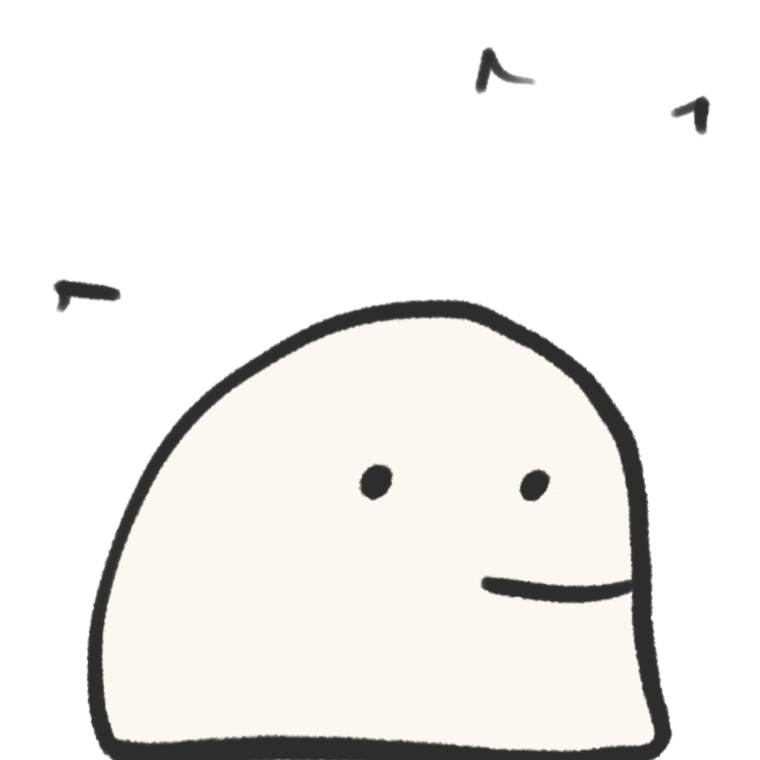
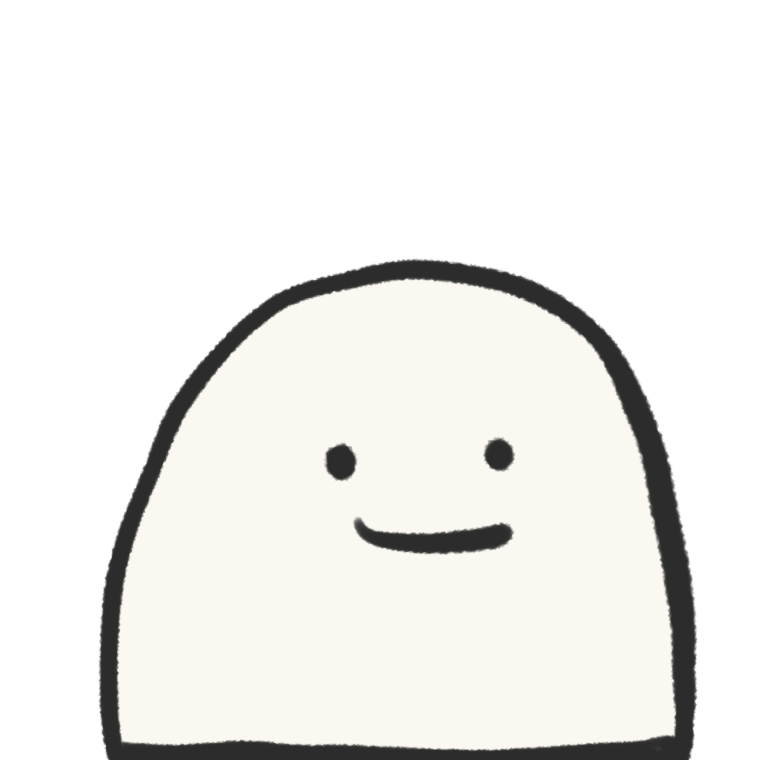
complete test pet idle state

diff --git a/desktop-pet/pets/test_pet/testpet.py b/desktop-pet/pets/test_pet/testpet.py
@@ -1,28 +1,66 @@
 from utils import context
 from . import test_pet_idle_state as idle
+from . import test_pet_constants as constants
 from win32api import GetMonitorInfo, MonitorFromPoint
 import tkinter as tk
 
 
+
 class TestPet():
     # this colour becomes the background, and is then set to be transparent
-    TRANSPARENCY = '#aba2a3'
+    xwin = 0
+    ywin = 0
+    w = 500
+    h = 500
 
     def __init__(self):
         # tkinter create root window
         self.root = tk.Tk()
         self.root.title('Test Pet')
 
-        #self.root.overrideredirect(True)
-        self.root.wm_attributes('-transparentcolor', self.TRANSPARENCY)
+        self.root.overrideredirect(True)
+        self.root.wm_attributes('-transparentcolor', constants.TRANSPARENCY)
 
         # position the screen
         ws = self.root.winfo_screenwidth()
         hs = self.root.winfo_screenheight()
 
+        self.root.geometry('%dx%d+%d+%d' % (self.w, self.h, ws/2-self.w, hs-self._get_taskbar_coords()-self.h))
+
+        #bind events to functions 
+        self.root.bind('<B1-Motion>', self._move)
+        self.root.bind('<Button-1>', self._set_mouse_pos)
+        self.root.bind('<Button-3>', self._do_popup)
+        self.root.bind('<ButtonRelease-1>', self._snap_to_taskbar)
+
         # initialize the state machine
         init_state = idle.TestPetIdleState()
         context.Context(init_state, self.root)
 
+        #right-click menu
+        self.menu = tk.Menu(self.root, tearoff=0)
+        self.menu.add_command(label="Quit", command=self.root.destroy)
+
         self.root.mainloop()
-        
+
+    def _set_mouse_pos(self, event):
+        self.xwin = event.x
+        self.ywin = event.y
+
+    def _move(self, event):
+        self.root.geometry(f'+{event.x_root - self.xwin}+{event.y_root - self.ywin}')
+
+    def _snap_to_taskbar(self, event):
+        window_y = self.root.winfo_screenheight()-self._get_taskbar_coords()-self.h
+        self.root.geometry(f'+{event.x_root - self.xwin}+{window_y}')
+
+    def _get_taskbar_coords(self):
+        #get taskbar height
+        monitor_info = GetMonitorInfo(MonitorFromPoint((0,0)))
+        monitor_area = monitor_info.get("Monitor")
+        work_area = monitor_info.get("Work")
+        return monitor_area[3]-work_area[3]
+    
+    def _do_popup(self, event):
+        self.menu.tk_popup(event.x_root, event.y_root)
+        self.menu.grab_release()

diff --git a/desktop-pet/pets/test_pet/test_pet_idle_state.py b/desktop-pet/pets/test_pet/test_pet_idle_state.py
@@ -1,14 +1,43 @@
 from utils import state
+from . import test_pet_constants as constants
 import tkinter as tk
+from PIL import Image, ImageTk
 
 
 class TestPetIdleState(state.State):
+    # TODO: optimize by moving animation code to an animation manager?
+    # number of frames
+    max_frames = 2
+
     def enter(self) -> None:
-        print("entering")
+        # prepare and size the animation frames
+        self.idle_frames = []
+        for i in range(self.max_frames):
+            #TODO width and height as constants
+            img = Image.open(constants.ASSETS_PATH + f'\\idle\\test_pet_idle{i}.png').resize((500, 500))
+            self.idle_frames.append(ImageTk.PhotoImage(img))
+
+        ''' old code for reference, TODO delete later
+        self.idle_frames = [tk.PhotoImage(file=constants.ASSETS_PATH + f'\\idle\\test_pet_idle{i}.png')
+                            for i in range(self.max_frames)]
+        '''
+        self.current_frame = 0
+
+        # configure the tkinter label
+        self.label = tk.Label(self.context.root, bd=0, bg=constants.TRANSPARENCY)
+        self.label.configure(image = self.idle_frames[self.current_frame])
+        self.label.pack()
         self.update()
 
     def update(self) -> None:
-        print("updating")
+        self.current_frame = (self.current_frame + 1) % self.max_frames
+        self.label.configure(image = self.idle_frames[self.current_frame])
+
+        # eyes open faster
+        if self.current_frame == 1:
+            self.label.after(500, self.update)
+        else:
+            self.label.after(5000, self.update)
 
     def exit(self) -> None:
-        print("exiting")
+        self.label.destroy()

diff --git a/desktop-pet/pets/test_pet/test_pet_constants.py b/desktop-pet/pets/test_pet/test_pet_constants.py
@@ -1,0 +1,2 @@
+TRANSPARENCY = '#aba2a3'
+ASSETS_PATH = 'desktop-pet\\pets\\test_pet\\assets'
